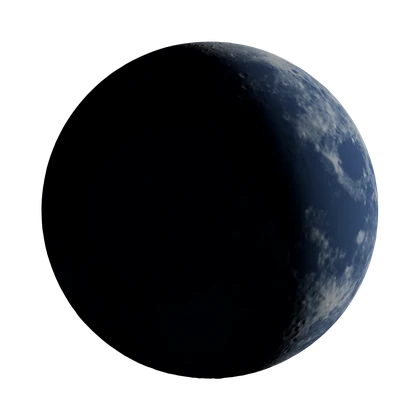
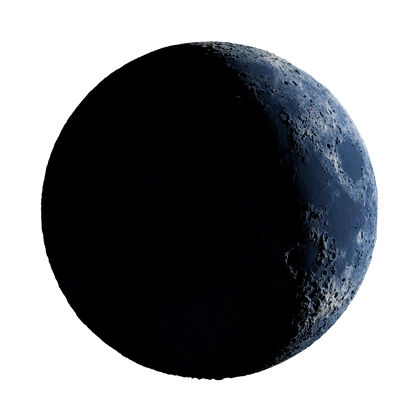
Welcome screen: the crescent is the cratered moon (new welcome-moon.webp)
Claude-Session: https://claude.ai/code/session_01HyXKCEFm5bGEB5wxCNZHdV

diff --git a/src/features/onboarding/welcome-hero.tsx b/src/features/onboarding/welcome-hero.tsx
@@ -13,7 +13,7 @@ import { useLeaving } from './ui';
 
 /**
  * The opener, after Jomo's welcome (user 2026-11-07, docs/WELCOME_SCREEN.md "Round 4"): the real
- * Home on a 3D iPhone, the blue crescent hanging off its left edge, the phone fading into black
+ * Home on a 3D iPhone, the cratered crescent hanging off its left edge, the phone fading into black
  * above the words. Every number below is in points of a 390pt-wide screen, measured off the
  * mockup the user signed off (docs/design-references/welcome-jomo.html), and scaled to the
  * screen's width.
